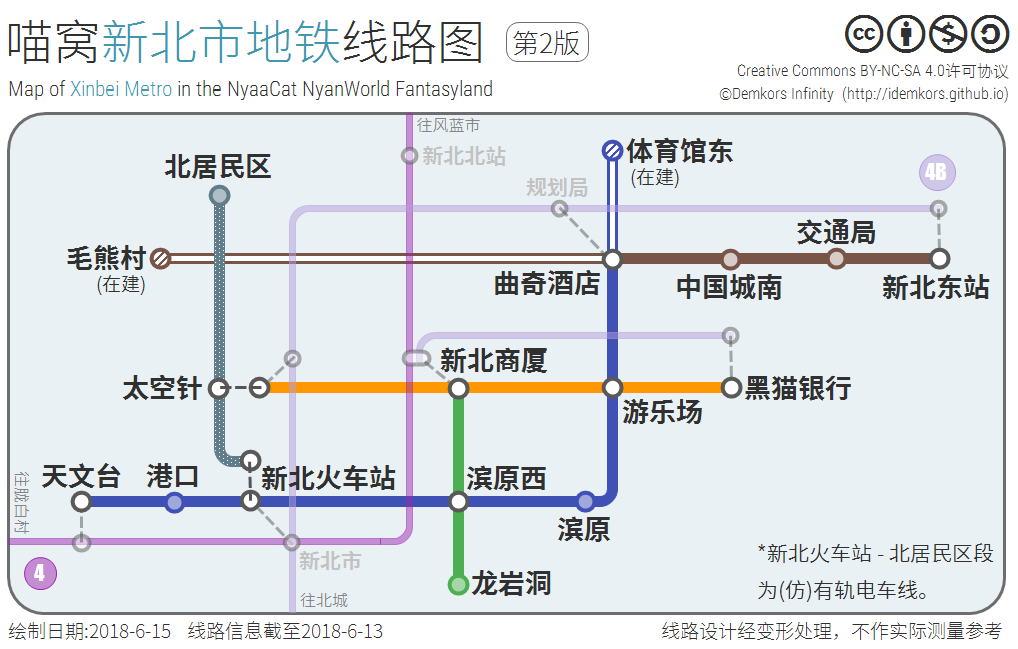
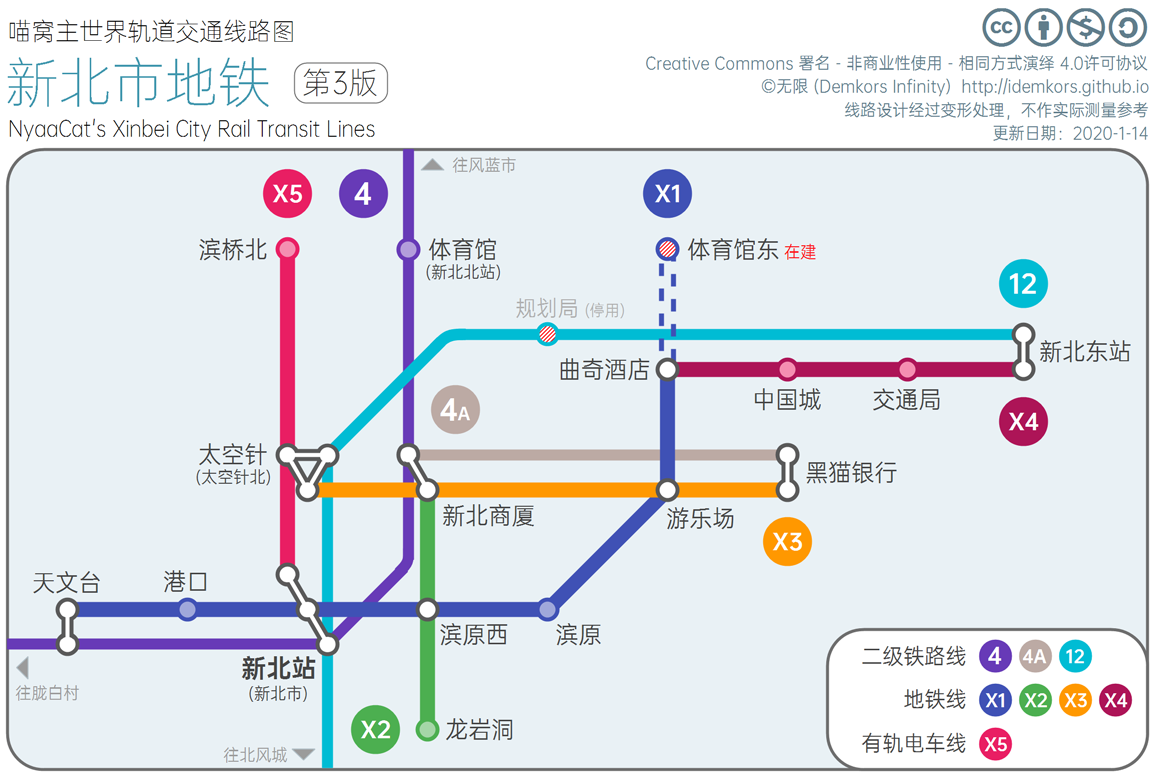
Update rail maps, NewNorth, Nether Transit Guide: update map-NewNorth-subway; update advisions of setting home in NewNorth; add a picture of 龙岩洞; update limitations of Nether Transit

Changed region(s): [[0.0, 0.0, 1.0, 1.0]]

diff --git a/nyaa/realms/newnorth.md b/nyaa/realms/newnorth.md
@@ -8,7 +8,7 @@
   + **新北街道办主任**：*狸猫*
 
 
-新北市是北风城下辖、自主发展的一个地级市，位于北风城东北方。  
+新北市是[北风城](nyaa/realms/northwind)下辖、自主发展的一个地级市，位于北风城东北方。  
 如需入住，请翻阅【[功能区划](#功能区划)】了解详情。
 
 ## 地理状况
@@ -31,7 +31,9 @@
 
 共三个，均要求**自主建造房屋**。
 
-!> 居民区迁入规则尚不明确，请谨慎决定是否迁入。
+!> 因政策调整，新北市暂**无法公开提供**可迁入的房屋及地块。**未经[北风城居委会](nyaa/realms/northwind#有关居民委员会)同意，不得私自占用。**  
+同时，居委会**强烈建议新来者，就近入住北风城。**  
+如非常希望迁入本市，请联系居委会，沟通相关事项。
 
 #### 新桥北区
 
@@ -46,7 +48,7 @@
 #### 滨原区
 
 **目前暂无空地供应。**  
-**设有[商业大厦](#新北商厦)，可经【新北商厦】站到达。**  
+**设有[商业大厦](#新北商厦)，可经「新北商厦」站到达。**  
 居住区临海而建，景色优美。  
 中央有一座死火山；毗邻之有游乐场（未完成），靠近滨港区。
 
@@ -68,11 +70,14 @@ _狸猫_  家设有公共建材仓库。取得同意后，可与*狸猫*  共建
 
 #### 龙岩洞区
 
-**旅游功能区。** 主要包含中式吊脚楼结构建筑群“龙岩洞”，由*“龙脉工坊”团队* 负责施工。  
-2016年9月前后，龙岩洞一期工程竣工。[（来源）](https://bbs.nyaa.cat/d/677-dragonwork "DragonWork-龙脉工坊的建筑视频~ - NyaaBBS")  
+**旅游功能区。** 主要包含中式吊脚楼结构建筑群「龙岩洞」，由*“龙脉工坊”团队* <sup>（DragonWork，[“新式创筑”](https://innovacreation.studio/)前身）</sup>负责施工。其原型是重庆「洪崖洞」商业街。  
+2016年9月前后，龙岩洞一期工程竣工。<sup>[（来源）](https://bbs.nyaa.cat/d/677-dragonwork "DragonWork-龙脉工坊的建筑视频~ - NyaaBBS")</sup>  
 随后，二期工程在其东北方启动，目前陷入停滞。
 
 龙岩洞一期以北，原为 *“龙脉工坊”团队* 总部大楼；现为新北市知识产权大厦（NNIP）。
+
+![龙岩洞](../../assets/images/realms/NewNorth-Longyandong.png)  
+*龙岩洞一隅（摄于2016年9月）*
 
 #### 毛熊村新区
 
@@ -136,7 +141,7 @@ _狸猫_  家设有公共建材仓库。取得同意后，可与*狸猫*  共建
 -   **地铁线：**  龙岩洞 - 滨原西 - 新北商厦
 -   **地铁线：**  太空针 - 新北商厦 - 游乐场 - 黑猫银行
 -   **地铁线：** 曲奇酒店 - 中国城南 - 交通局 - 新北东站
--   **有轨电车线：**  新北火车站 - 太空针 - 北居民区
+-   **有轨电车线：**  新北火车站 - 太空针 - 滨桥北居民区
 
 #### 待建
 
@@ -145,7 +150,7 @@ _狸猫_  家设有公共建材仓库。取得同意后，可与*狸猫*  共建
 
 ## 商业
 
-市内商业发达，先后有三处商业集散地落户。其中，仅【新北商厦】仍维持营业。
+市内商业发达，先后有三处商业集散地落户。其中，仅「新北商厦」仍维持营业。
 
 ### 新北商厦
 
@@ -188,13 +193,14 @@ _狸猫_  家设有公共建材仓库。取得同意后，可与*狸猫*  共建
 ## 历史
 
 很久以前（据考究，最晚至2015年下半年），一些移民来到[北风城](/nyaa/realms/northwind.md)以北的半岛决定修建一个村落，取名为“新北村”，后又称“新桥北区”；随着喵窝人口急剧上升，*奈尔* 负责的“北城新区”在这里建设，作为北风城的扩展区，各种现代化科技和建筑技术逐渐引进。  
-后来“北城新区”的发展越来越加迅速，北风城发展却突然停滞，于是移民们决定脱离北风城建立新北市。至此，以 **“龙脉工坊”团队**<sup>（DragonWork，[“新式创筑”](https://innovacreation.studio/)前身）</sup> 为首的一群满怀激情的建筑师、设计师来到，彻底改变了这里，各式摩天大厦拔地而起，轻轨地铁的高速现代化路网快速发展建设，使得新北跃居喵窝国际化大都市，以及新兴港口城市之一。  
+后来“北城新区”的发展越来越加迅速，北风城发展却突然停滞，于是移民们决定脱离北风城建立新北市。至此，以 **“龙脉工坊”团队** 为首的一群满怀激情的建筑师、设计师来到，彻底改变了这里，各式摩天大厦拔地而起，轻轨地铁的高速现代化路网快速发展建设，使得新北跃居喵窝国际化大都市，以及新兴港口城市之一。  
 独立建城后，其仍旧分担北风城的部分城市功能（如容纳蔬果基地，~以及北风城环游任务的NPC~）。
 
 直至2019年1月，新北市作为玩家村落存在。期间，城市建设由三位前市长接力，在一众热心人士协助下，断断续续地进行，规划、既有建筑等不断修改，跌跌撞撞中，成就今日规模。即便如此，相当一部分高楼仍处于“空壳”状态——毫无内饰可言。  
 当年2月1日“用户组改革”后，全市改为公共规划区。建造师们不再能轻易实施建设方案，城区建设中断。
 
-当年12月1日，各聚落先后成立居委会。因市内居民群体几乎停滞、难以组织，经管理员撮合，新北市街道交由**北风城居委会**代管。*狸猫* 任街道办主任。
+当年12月1日，各聚落先后成立居委会。经管理员撮合，新北市街道交由**北风城居委会**代管。*狸猫* 任街道办主任。  
+12月下旬，市区不再开放设置出生点。
 
 ### 新北时报
 

diff --git a/space/map-navi/railway-nether.md b/space/map-navi/railway-nether.md
@@ -2,11 +2,10 @@
 
 > **综述**
 
-由于主世界与下界之间有 8:1 的距离换算关系，即下界1格相当于主世界8格，利用下界进行旅行，将大大缩短所需时间。
-
+由于主世界与下界之间有 8:1 的距离换算关系，即下界1格相当于主世界8格，利用下界进行旅行，将大大缩短所需时间。  
 目前下界铁路 [没有任何规划](https://bbs.nyaa.cat/d/987)，所有线路均由玩家自行建设。
 
-[此处](nyaa/projects/nether-traffic)查看下界交通网历史。
+此页介绍位于Y=5~12的公共[下界交通网](nyaa/projects/nether-traffic "点击查看详情及历史")之指导。
 
 > **快速旅行小技巧**
 
@@ -22,25 +21,27 @@
 
 **由于以下原因，下界地铁存在一些限制：**
 
-1. 地铁南段由南城向南的站点，由于铺设时间较早，只有单条的双向自加速铁路，没有冰道。
+1. 地铁南段由浪花町向南的站点，由于铺设时间较早，只有单条的双向自加速铁路，没有冰道。
 2. 由于建设时优先考虑采用既有的下界传送门与主世界进行连接，部分站点（如红魔城站、筑梦庄园站）的进、出站口有存在于特异位置之可能。详情如下：
 
 | 站点名称 | 主世界出入口位置 |
 | - | - |
-| 樱华町      | 出征楼          |
+| 樱华町 | 出征楼 |
 | 北风城 | 广场以西山洞内 |
-| 新北市      | 站楼西侧建筑内      |
+| 新北市 | 站楼西侧建筑内 |
 | 北沼 | 车站三楼 |
-| 柚木小镇 | 站楼内          |
-| 红魔城      | 红魔馆地下        |
-| 月望谷      | 居民区一期东侧山体内   |
-| 浪花町 | 站楼地下         |
-| 筑梦庄园     | 地道内          |
-| 阿库亚斯 | 一级车站以东       |
-| 极东       | 南居民区某民宿内     |
+| 柚木小镇 | 站楼内 |
+| 红魔城 | 红魔馆地下 |
+| 月望谷 | 居民区一期东侧山体内 |
+| 浪花町 | 站楼地下 |
+| 筑梦庄园 | 地道内 |
+| 阿库亚斯 | 一级车站以东 |
+| 极东 | 南居民区某民宿内 |
 | 科技特区 | 太空电梯地下避难所 |
+| 南沙港 | 二期工程传送站内 |
 
-3. 同样，由于优先考虑与既有下界门进行对接，部分城镇中没有下界门的，暂无相应站点。同时，某些城镇与毗邻城镇间距离太近（如月望谷和QQ村等），依8:1举例换算关系难以进行站点隔离，仅针对较大的城镇设置了站点。
+3. 同样，由于优先考虑与既有下界门进行对接，**部分城镇中没有下界门的，暂无相应站点**。同时，某些城镇与毗邻城镇间距离太近（如月望谷和QQ村等），~~依8:1举例换算关系难以进行站点隔离，仅针对较大的城镇设置了站点。~~  
+建设单位*无极限拉玛集团* 经过技术攻关，已可支持多个超近传送门相互隔离。然而，对于下界出口距离在**100米以内**的两个聚落，**一般仅设置一个站点**。
 
 > **实用资源**
 
